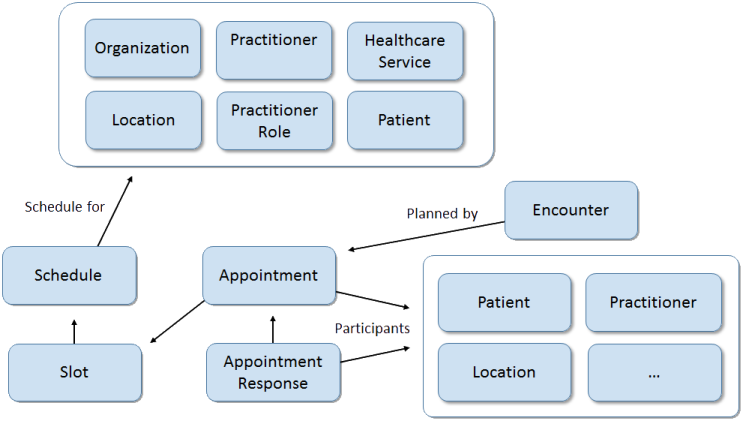
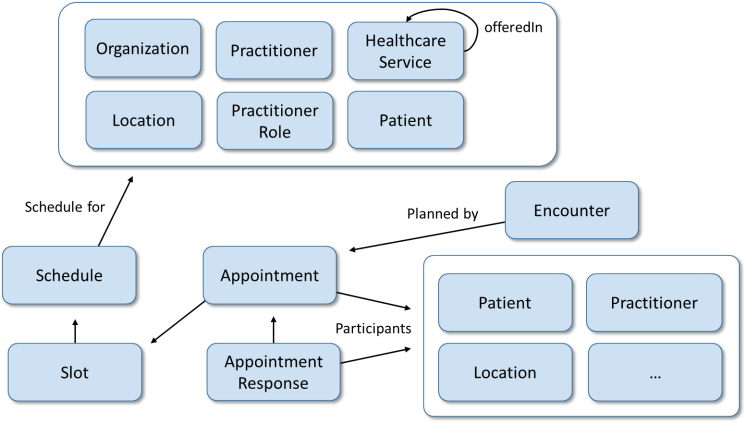
#FHIR-22687 Update resource description to cater for healthcareservce catalogs

diff --git a/source/administration-module.html b/source/administration-module.html
@@ -157,6 +157,9 @@ in order to support consistent definitions for schema and UML derived code.
         <div>
             <img src="administration-module-scheduling.png" alt="Image showing the scheduling interactions" width="600px" />
         </div>
+        <p>
+            When the scheduling resources need to identify the specific activity or service that is being scheduled, they may use either a HealthcareService or a coding to represent that activity.
+        </p>
         <p></p>
 
         <a name="dev-sub"></a>
